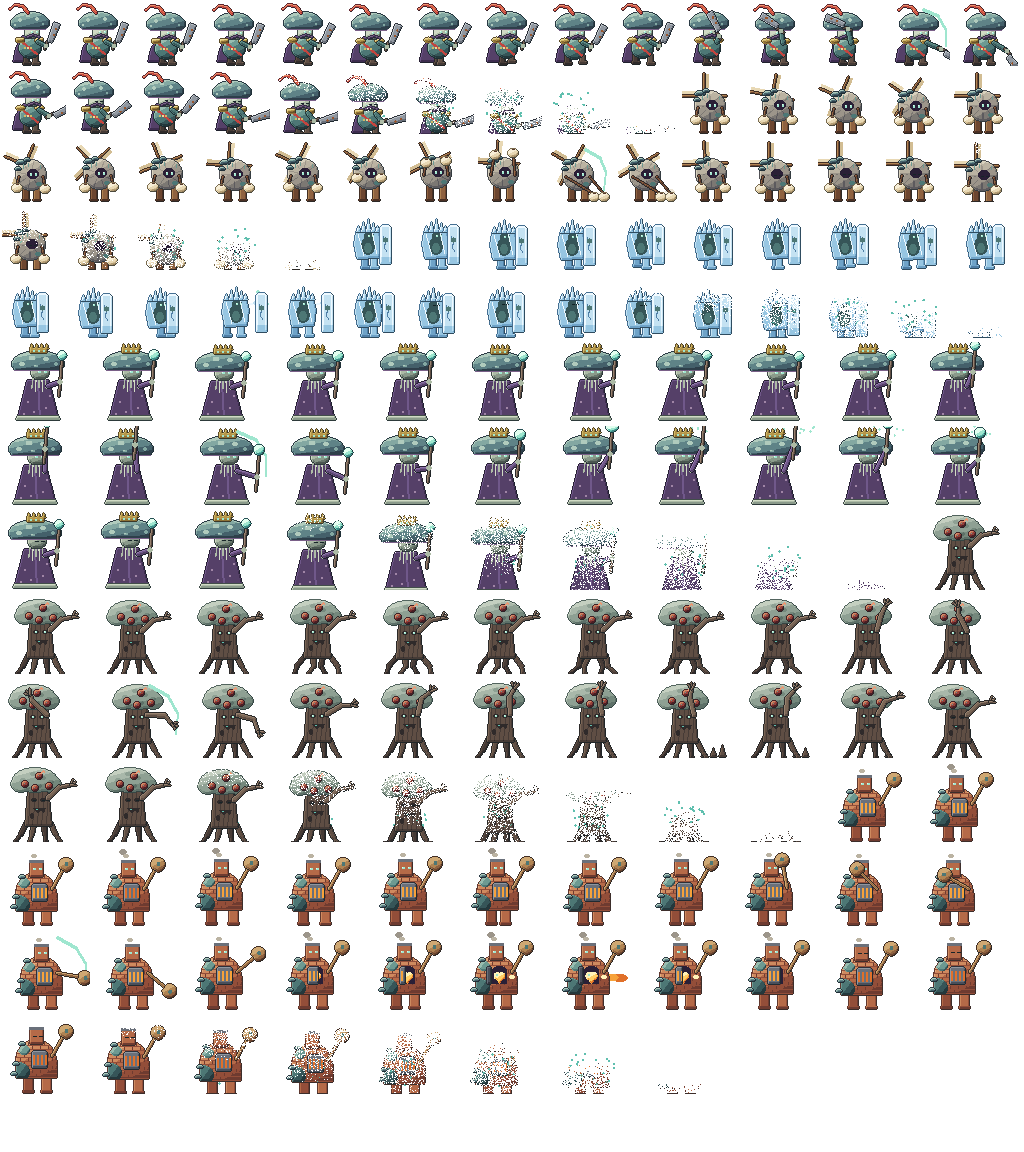
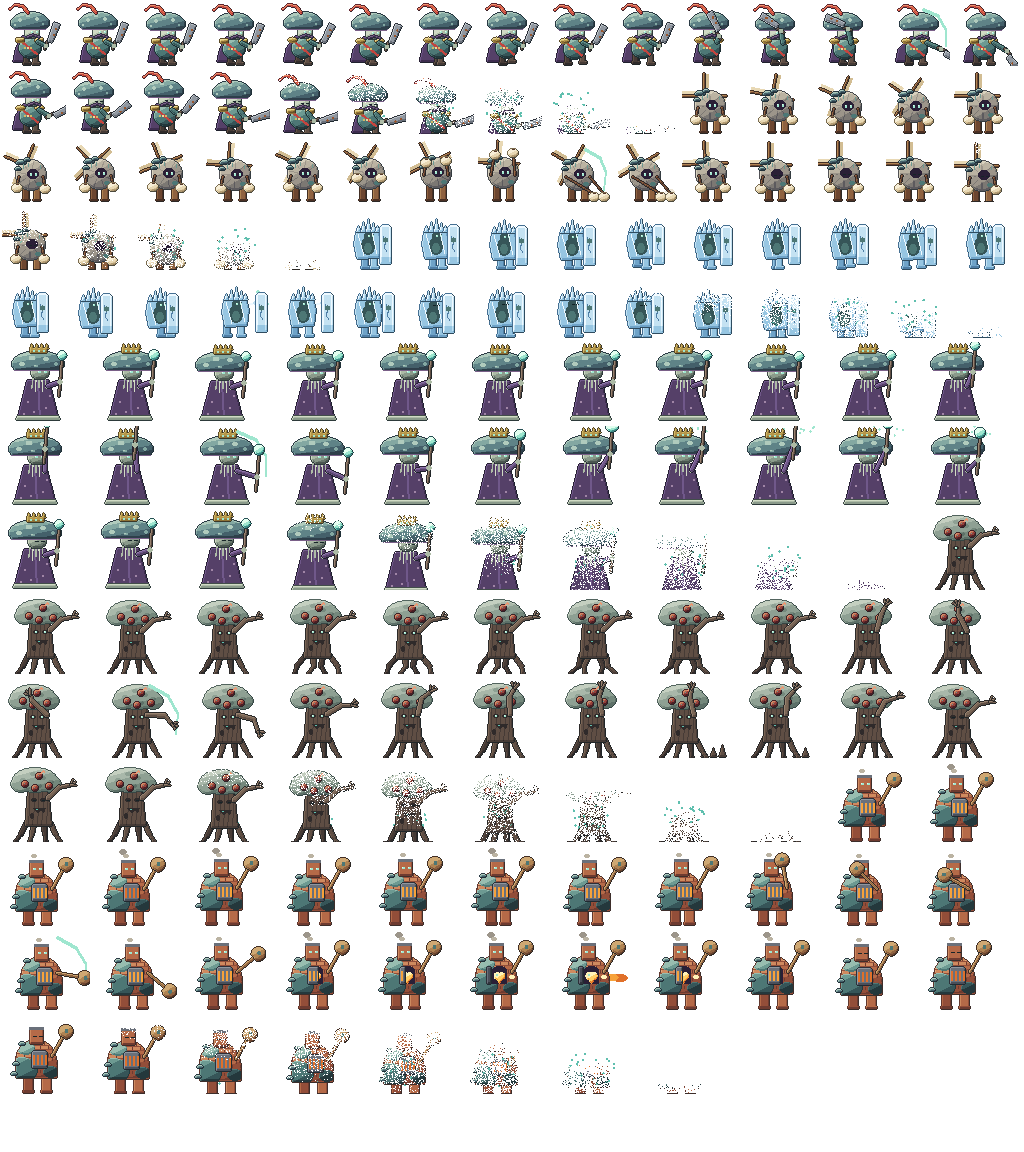
[Art] 다시 그린 영웅·유닛·도전 적·보스를 실제 게임에 연결
미리보기에만 연결돼 있던 release_slice 캐릭터를 기본 게임 아틀라스로 등록:
- rs_chars(영웅·식빵병·곰팡이 졸병), rs_chars2(견습생·롤빵병·통식빵·프레첼·화덕포·적 4종),
  rs_challenge(도전 적 6종 + 거미 다리 없는 둥지의 핵), rs_bosses(보스 6종)
- 색만 바꾸던 변형 보스 4종(맷돌 파수꾼·서리 방벽·과수원 군세왕·오븐 심장)이 각자 그림을 쓰도록 units.json 변경
  (visual_tint 제거, 표식 높이 62/78)
- 내보내기 설정에 release_slice JSON 포함
- 색약 시야 평균색 검사(TH-COL) 통과용: 도넛 철모·프라이팬 회색 -> 푸른 강철, 오븐 심장 보스 곰팡이 얼룩 확대

검증: acceptance 155 PASS (남은 FAIL은 기존 MON-01 결제 데이터 1건), campaign30 351, campaign100 973,
challenge 251, frost 180, test_ui 3418, ui_integration 49. 보스 R5-R30·도전 R34/R40·전체 유닛 실제 화면 확인.

diff --git a/tools/art/release_slice/roster10_sheets.py b/tools/art/release_slice/roster10_sheets.py
@@ -106,6 +106,23 @@ def unit_frames(uid: str) -> dict:
     return frames
 
 
+def blue_steel(frames: dict) -> dict:
+    """Donut only: its steel helmet and frying pan were grey, which made the unit's mean colour match the grey-green
+    mould enemies for protan/deutan viewers (suite_theme TH-COL). Grey metal becomes blue steel, value kept."""
+    out = {}
+    for k, f in frames.items():
+        g = f.astype(np.float32)
+        rgb = g[..., :3] / 255.0
+        mx, mn = rgb.max(axis=2), rgb.min(axis=2)
+        grey = (g[..., 3] > 0) & ((mx - mn) < 0.12) & (mx > 0.3) & (mx < 0.97)
+        v = mx[grey]
+        g[..., 0][grey] = np.clip(v * 0.62, 0, 1) * 255
+        g[..., 1][grey] = np.clip(v * 0.74, 0, 1) * 255
+        g[..., 2][grey] = np.clip(v * 1.02, 0, 1) * 255
+        out[k] = g.astype(np.uint8)
+    return out
+
+
 def palette(frames: dict) -> dict:
     """One palette per unit across all frames, no dither."""
     keys = [k for k in frames]
@@ -136,7 +153,8 @@ def main() -> None:
     sheet = np.zeros((FH * len(IDS), FW * 16, 4), np.uint8)
     atlas = {"schema": "defence.atlas/1", "atlas": "roster10", "frames": {}, "anims": {}}
     for row, uid in enumerate(IDS):
-        frames = palette(unit_frames(uid))
+        raw = unit_frames(uid)
+        frames = palette(blue_steel(raw) if uid == "donut" else raw)
         atlas["anims"][uid] = {}
         col = 0
         for name, (seq, fps, loop) in ANIMS.items():

diff --git a/tools/art/release_slice/bosses.py b/tools/art/release_slice/bosses.py
@@ -450,7 +450,9 @@ def ovengolem(b=0, lean=0, door=0.0, heart=1.0, peel=-60.0, eyes=True, arc=None,
         for xx in range(int(cx) - 20 + (yy // 4 % 2) * 4, int(cx) + 21, 8):
             put(img, m_rect(W, H, xx, yy + b, 1, 3) & body, RAMP["brick"][0])
         put(img, m_rect(W, H, int(cx) - 20, yy + b + 3, 41, 1) & body, RAMP["brick"][1])
-    mould = body & (m_ellipse(W, H, cx - 18, 58 + b, 12, 10) | m_ellipse(W, H, cx - 12, 36 + b, 6, 5))
+    # v2: wider mould (left flank, shoulder, right hip) so the boss reads as a mould-eaten oven, not as our oven cannon
+    # (protan mean-colour check against `siege` was 1.67 < 2.3)
+    mould = body & (m_ellipse(W, H, cx - 14, 56 + b, 16, 13) | m_ellipse(W, H, cx - 10, 34 + b, 9, 7) | m_ellipse(W, H, cx + 15, 58 + b, 8, 6))
     lvm = mass(img, mould, "mould", "round", None, base=2)
     for (sx, sy) in ((-20, 50), (-14, 30), (-22, 60)):
         c = m_ellipse(W, H, cx + sx, sy + b, 3.5, 2) & m_rect(W, H, 0, 0, W, sy + b + 1)
